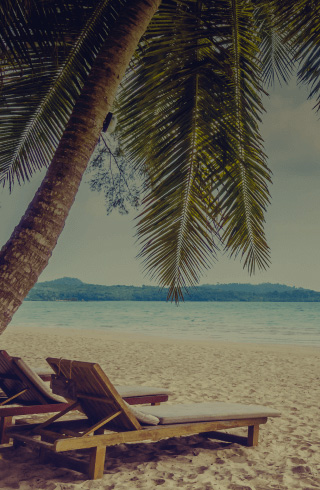
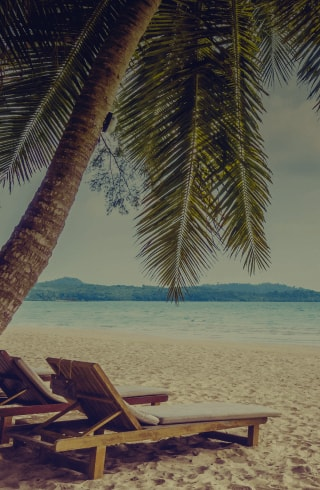
added mailchimp newsletter form and links on social networks

diff --git a/build/index.html b/build/index.html
@@ -122,10 +122,10 @@
             <h3 class="info__proposals-title"><svg class="info__proposals-title-img" viewBox="0 0 108 111" fill="none" xmlns="http://www.w3.org/2000/svg"><path d="M0 26.8646C3.54246 28.6807 7.6479 29.0639 11.4653 27.9349C15.2826 26.8059 18.5192 24.2512 20.5039 20.8004C22.5035 17.3552 23.0997 13.2723 22.1687 9.39917C21.2378 5.52604 18.8512 2.16012 15.5043 0L0 26.8646Z" transform="translate(30.045 54.9622) scale(-1 1) rotate(-10)" fill="#F44B00"/><path d="M1.40153 0L0 2.43243C3.13819 4.46204 5.43724 7.55734 6.4736 11.1481C7.50997 14.7388 7.21383 18.5831 5.63975 21.9728C5.90928 21.5955 6.16533 21.1979 6.40116 20.7936C8.39869 17.3491 8.99372 13.2678 8.06285 9.39623C7.13197 5.52469 4.74663 2.16 1.40153 0Z" transform="translate(16.1564 52.5132) scale(-1 1) rotate(-10)" fill="#FF8500"/><path d="M30.1859 5.505L11.1576 21.6763C10.2998 22.4044 9.23796 22.8495 8.11742 22.9508C6.99689 23.0522 5.87242 22.8047 4.89794 22.2423L1.23918 20.1333C0.891672 19.9355 0.59781 19.6557 0.383189 19.3183C0.168567 18.9808 0.0397011 18.5961 0.0078124 18.1975C-0.0240763 17.7989 0.0419697 17.3985 0.20022 17.0313C0.35847 16.664 0.604112 16.3411 0.915748 16.0905L20.6179 0L30.1859 5.505Z" transform="translate(53.0779 80.7468) scale(-1 1) rotate(-10)" fill="#E6E7E8"/><path d="M4.94574 0L0 3.85417L3.35556 5.788L8.22717 1.8934L4.94574 0Z" transform="translate(38.7762 80.606) scale(-1 1) rotate(-10)" fill="#FF8500"/><path d="M0 0L0.235831 0.882684L3.56443 2.80304L3.35556 1.93383L0 0Z" transform="translate(38.1069 84.4016) scale(-1 1) rotate(-10)" fill="#FF8500"/><path d="M4.87161 0L5.79473 0.532302L0.208878 4.76381L0 3.8946L4.87161 0Z" transform="translate(35.1428 81.8879) scale(-1 1) rotate(-10)" fill="#F44B00"/><path d="M26.7023 0L12.1683 12.3172C11.3101 13.0443 10.2483 13.4889 9.12801 13.5902C8.0077 13.6915 6.88342 13.4446 5.90865 12.8832L2.73503 11.0504L0.915748 12.5328C0.604112 12.7834 0.35847 13.1063 0.20022 13.4736C0.0419697 13.8408 -0.0240763 14.2412 0.0078124 14.6398C0.0397011 15.0384 0.168567 15.4232 0.383189 15.7606C0.59781 16.098 0.891672 16.3778 1.23918 16.5756L4.89794 18.6846C5.87242 19.247 6.99689 19.4945 8.11742 19.3931C9.23796 19.2918 10.2998 18.8467 11.1576 18.1187L30.1859 1.94731L26.7023 0Z" transform="translate(52.4437 84.2271) scale(-1 1) rotate(-10)" fill="#BCBEC0"/><path d="M0 62.0643C0 62.0643 6.11816 64.6921 9.43328 64.874L35.8734 66.3093C41.1901 66.5921 46.4 67.9129 51.2093 70.1971L53.2307 71.1404C57.1268 72.998 61.5801 73.3179 65.7018 72.0365C69.8234 70.755 73.3102 67.9664 75.4663 64.2272C77.6237 60.4927 78.2948 56.0825 77.3457 51.8754C76.3966 47.6682 73.8971 43.9732 70.3453 41.5267L68.5328 40.2734C64.1563 37.2565 60.4116 33.4134 57.5093 28.9602L43.0495 6.77849C41.2302 3.98893 35.8936 0 35.8936 0L0 62.0643Z" transform="translate(94.3892 20.7263) scale(-1 1) rotate(-10)" fill="#E6E7E8"/><path d="M23.3743 33.569C26.6767 37.6006 30.5732 41.1063 34.9301 43.9658L36.7629 45.1787C44.2151 50.0975 47.3618 58.392 43.9928 64.2272C46.1502 60.4927 46.8213 56.0825 45.8722 51.8754C44.9232 47.6682 42.4237 43.9732 38.8719 41.5267L37.0593 40.2734C32.6828 37.2565 28.9382 33.4134 26.0359 28.9602L11.576 6.77849C9.75671 3.98893 4.42017 0 4.42017 0L0 7.65443C0 7.65443 5.43088 11.4749 7.41187 13.941L23.3743 33.569Z" transform="translate(63.4735 15.2749) scale(-1 1) rotate(-10)" fill="white"/><path d="M55.2521 13.0382L53.2846 12.0544C48.6353 9.7272 43.6599 8.11873 38.5282 7.28384L13.5974 3.2949C10.4575 2.79628 4.43363 0 4.43363 0L0 7.614C0 7.614 6.11816 10.2419 9.43328 10.4238L35.8734 11.859C41.1901 12.1419 46.4 13.4627 51.2093 15.7468L53.2307 16.6902C57.1268 18.5477 61.5801 18.8677 65.7018 17.5862C69.8234 16.3048 73.3102 13.5161 75.4663 9.77693C72.0231 15.6121 63.2704 17.0338 55.2521 13.0382Z" transform="translate(84.934 74.3494) scale(-1 1) rotate(-10)" fill="#BCBEC0"/><path d="M33.0839 39.8017C40.4957 26.9994 43.6222 13.968 42.0455 5.57911C40.1326 3.54321 38.0473 1.67656 35.8128 0L0 62.0643C2.56795 63.1608 5.22591 64.0333 7.94418 64.6719C15.9759 61.8486 25.6855 52.6175 33.0839 39.8017Z" transform="translate(94.3892 20.7263) scale(-1 1) rotate(-10)" fill="#F44B00"/><path d="M35.8263 27.8012C55.6126 27.8012 71.6525 21.5777 71.6525 13.9006C71.6525 6.22352 55.6126 0 35.8263 0C16.04 0 0 6.22352 0 13.9006C0 21.5777 16.04 27.8012 35.8263 27.8012Z" transform="translate(96.6858 77.0979) scale(-1 1) rotate(-70)" fill="#FF8500"/><path d="M35.8263 27.8012C55.6126 27.8012 71.6525 21.5777 71.6525 13.9006C71.6525 6.22352 55.6126 0 35.8263 0C16.04 0 0 6.22352 0 13.9006C0 21.5777 16.04 27.8012 35.8263 27.8012Z" transform="translate(96.6858 77.0979) scale(-1 1) rotate(-70)" fill="#FF8500"/><path d="M33.8588 24.5131C52.5584 24.5131 67.7175 19.0256 67.7175 12.2565C67.7175 5.48744 52.5584 0 33.8588 0C15.1591 0 0 5.48744 0 12.2565C0 19.0256 15.1591 24.5131 33.8588 24.5131Z" transform="translate(94.4679 75.8113) scale(-1 1) rotate(-70)" fill="white"/><path d="M33.8588 24.5131C52.5584 24.5131 67.7175 19.0256 67.7175 12.2565C67.7175 5.48744 52.5584 0 33.8588 0C15.1591 0 0 5.48744 0 12.2565C0 19.0256 15.1591 24.5131 33.8588 24.5131Z" transform="translate(94.4679 75.8113) scale(-1 1) rotate(-70)" fill="white"/><path d="M34.2252 0C27.797 0.141499 17.4676 9.79713 9.36846 23.8258C1.26931 37.8544 -1.93126 51.627 1.16151 57.2668C7.58962 57.1253 17.9191 47.4696 26.0182 33.441C34.1173 19.4124 37.3179 5.63302 34.2252 0Z" transform="translate(91.2895 23.9634) scale(-1 1) rotate(-10)" fill="#E6E7E8"/><path d="M9.27158 20.888C3.79353 30.3752 0.559259 39.7546 0 46.5667C5.62628 42.6721 12.1285 35.1862 17.5998 25.6788C23.0711 16.1714 26.3121 6.81218 26.8714 0C21.2182 3.91481 14.7227 11.4008 9.27158 20.888Z" transform="translate(81.6214 30.1201) scale(-1 1) rotate(-10)" fill="#BCBEC0"/><path d="M4.25171 7.33776L0 14.6957L7.18277 25.2138C13.0942 17.9108 17.8234 9.72562 21.1979 0.956814L8.4967 0L4.25171 7.33776Z" transform="translate(77.137 41.5833) scale(-1 1) rotate(-10)" fill="white"/><path d="M8.13284 3.76657L5.5589 0L4.25171 2.264L0 9.62195L7.18278 20.1401C10.1466 16.4986 12.8101 12.6228 15.1472 8.5506C16.095 6.91101 16.9732 5.27816 17.7818 3.65204L17.7346 3.72615C17.2082 4.51495 16.4961 5.16236 15.6608 5.6114C14.8256 6.06044 13.8928 6.29737 12.9445 6.30137C11.9962 6.30536 11.0614 6.07628 10.2224 5.63428C9.3834 5.19229 8.66584 4.55092 8.13284 3.76657Z" transform="translate(76.256 46.5798) scale(-1 1) rotate(-10)" fill="#D1D3D4"/><path d="M8.49668 6.1586C13.1893 6.1586 16.9934 4.77994 16.9934 3.0793C16.9934 1.37865 13.1893 0 8.49668 0C3.80409 0 0 1.37865 0 3.0793C0 4.77994 3.80409 6.1586 8.49668 6.1586Z" transform="translate(77.1799 55.0989) scale(-1 1) rotate(-70)" fill="#FF8500"/><path d="M7.80266 5.25568C12.112 5.25568 15.6053 4.07916 15.6053 2.62784C15.6053 1.17652 12.112 0 7.80266 0C3.49337 0 0 1.17652 0 2.62784C0 4.07916 3.49337 5.25568 7.80266 5.25568Z" transform="translate(76.5195 54.5945) scale(-1 1) rotate(-70)" fill="#F44B00"/><path d="M15.1876 21.144C11.4775 27.6105 6.26894 33.0917 0 37.1267C3.6051 37.3491 7.16471 38.0492 10.5855 39.2088C20.4314 31.6184 26.8825 20.4477 28.5357 8.1261C25.8213 5.74351 23.4353 3.01091 21.4405 0C21.0784 7.44687 18.934 14.698 15.1876 21.144Z" transform="translate(53.7189 43.2014) scale(-1 1) rotate(-10)" fill="#FF8500"/><path d="M28.5155 0H28.4144C27.6839 1.70707 26.8536 3.36975 25.9281 4.97944C23.2378 9.65411 19.7617 13.83 15.6525 17.3236C15.1334 17.7586 14.5152 18.0592 13.8525 18.199C13.1898 18.3388 12.5029 18.3135 11.8522 18.1254C8.57694 22.452 4.56485 26.1675 0 29.1017C3.6051 29.3241 7.16473 30.0242 10.5855 31.1837C20.4468 23.5658 26.8927 12.355 28.5155 0Z" transform="translate(52.2984 51.1409) scale(-1 1) rotate(-10)" fill="#F44B00"/></svg>Хотите всегда быть в курсе самых выгодных предложений?
             </h3>
             <p class="info__proposals-text">Мы раз в неделю будем оповещать вас о лучших предложениях на рынке. Покупайте дешевле!</p>
-            <form action="https://formspree.io/info@vinvotravel.com" name="proposals" method="POST" class="info__proposals-form">
-              <input type="text" name="name" placeholder="Как вас зовут?" minlength="3" required class="info__proposals-form-input">
-              <input type="email" name="phone" placeholder="Ваш Email" pattern="[a-z0-9._%+-]+@[a-z0-9.-]+.[a-z]{2,4}$" required class="info__proposals-form-input">
-              <button type="submit" data-sm="thank-you" class="info__proposals-form-btn">Сообщайте мне о скидках</button>
+            <form action="https://vinvotravel.us12.list-manage.com/subscribe/post?u=4cf97530d2a247bb6d52031b0&amp;amp;id=bb5f9b21f3" name="mc-embedded-subscribe-form" id="mc-embedded-subscribe-form" method="POST" target="_blank" novalidate class="info__proposals-form validate">
+              <input type="text" id="mce-FNAME" name="FNAME" placeholder="Как вас зовут?" minlength="3" required class="info__proposals-form-input">
+              <input type="email" id="mce-EMAIL" name="EMAIL" placeholder="Ваш Email" pattern="[a-z0-9._%+-]+@[a-z0-9.-]+.[a-z]{2,4}$" required class="info__proposals-form-input">
+              <button type="submit" name="subscribe" id="mc-embedded-subscribe" data-sm="thank-you" class="info__proposals-form-btn">Сообщайте мне о скидках</button>
             </form>
             <p class="info__proposals-under-text">Только полезные оповещения. Никакого спама и воды.</p>
           </div>
@@ -311,7 +311,7 @@
               <div class="footer__tel-other"><a href="tel:+380965993523" class="footer__tel footer__tel--ky">+38 (096) 599-35-23</a><a href="tel:+380956100750" class="footer__tel footer__tel--vo">+38 (095) 610-07-50</a><a href="tel:+380630756705" class="footer__tel footer__tel--lc">+38 (063) 075-67-05</a></div>
             </div>
           </div>
-          <div class="footer__socials"><a href="" class="footer__socials-item footer__socials-item--fb"><svg class="footer__socials-img" width="32" height="32" viewBox="0 0 32 32" fill="none" xmlns="http://www.w3.org/2000/svg"><path class="soc-fill" d="M16 0C7.164 0 0 7.164 0 16C0 24.836 7.164 32 16 32C24.836 32 32 24.836 32 16C32 7.16203 24.836 0 16 0ZM20.136 15.998L17.514 15.9999L17.512 25.5999H13.914V16H11.514V12.692L13.914 12.69L13.91 10.742C13.91 8.04204 14.642 6.40004 17.82 6.40004H20.468V9.71003H18.812C17.574 9.71003 17.514 10.172 17.514 11.034L17.51 12.69H20.4859L20.136 15.998Z" fill="white"/></svg></a><a href="" class="footer__socials-item footer__socials-item--tw"><svg class="footer__socials-img" width="32" height="32" viewBox="0 0 32 32" fill="none" xmlns="http://www.w3.org/2000/svg"><path class="soc-fill" d="M3.20181 6.40619C4.96705 6.40619 6.40619 4.96963 6.40619 3.20309C6.40619 2.50576 6.17804 1.86192 5.80037 1.33602C5.2184 0.529123 4.2723 0 3.20374 0C2.13454 0 1.18908 0.528477 0.605819 1.33537C0.226861 1.86127 0.000646433 2.50512 1.94764e-06 3.20245C-0.00193151 4.96898 1.43592 6.40619 3.20181 6.40619Z" transform="translate(12.7976 12.7969)" fill="white"/><path d="M3.08515 3.08451V0.399581V0L2.68364 0.00128888L0 0.00966751L0.010311 3.09482L3.08515 3.08451Z" transform="translate(19.9088 8.99707)" fill="white"/><path d="M16 0C7.17764 0 0 7.17764 0 16C0 24.8217 7.17764 32 16 32C24.8217 32 32 24.8217 32 16C32 7.17764 24.823 0 16 0ZM25.0995 14.1329V21.5832C25.0995 23.5237 23.5218 25.1008 21.5825 25.1008H10.4175C8.47756 25.1008 6.90051 23.5237 6.90051 21.5832V14.1329V10.4181C6.90051 8.47821 8.47756 6.90115 10.4175 6.90115H21.5819C23.5218 6.90115 25.0995 8.47821 25.0995 10.4181V14.1329Z" fill="white"/><path d="M12.3045 1.86707C12.3045 4.61065 10.072 6.84444 7.32716 6.84444C4.58229 6.84444 2.35044 4.61065 2.35044 1.86707C2.35044 1.20712 2.48191 0.57617 2.71651 0H0V7.45025C0 8.41311 0.781761 9.19294 1.74398 9.19294H12.9084C13.8693 9.19294 14.6524 8.41311 14.6524 7.45025V0H11.9346C12.1711 0.57617 12.3045 1.20712 12.3045 1.86707Z" transform="translate(8.67285 14.1328)" fill="white"/></svg></a><a href="" class="footer__socials-item footer__socials-item--tg">
+          <div class="footer__socials"><a href="https://fb.com/vinvotravel" class="footer__socials-item footer__socials-item--fb"><svg class="footer__socials-img" width="32" height="32" viewBox="0 0 32 32" fill="none" xmlns="http://www.w3.org/2000/svg"><path class="soc-fill" d="M16 0C7.164 0 0 7.164 0 16C0 24.836 7.164 32 16 32C24.836 32 32 24.836 32 16C32 7.16203 24.836 0 16 0ZM20.136 15.998L17.514 15.9999L17.512 25.5999H13.914V16H11.514V12.692L13.914 12.69L13.91 10.742C13.91 8.04204 14.642 6.40004 17.82 6.40004H20.468V9.71003H18.812C17.574 9.71003 17.514 10.172 17.514 11.034L17.51 12.69H20.4859L20.136 15.998Z" fill="white"/></svg></a><a href="https://www.instagram.com/vinvotravel/" class="footer__socials-item footer__socials-item--tw"><svg class="footer__socials-img" width="32" height="32" viewBox="0 0 32 32" fill="none" xmlns="http://www.w3.org/2000/svg"><path class="soc-fill" d="M3.20181 6.40619C4.96705 6.40619 6.40619 4.96963 6.40619 3.20309C6.40619 2.50576 6.17804 1.86192 5.80037 1.33602C5.2184 0.529123 4.2723 0 3.20374 0C2.13454 0 1.18908 0.528477 0.605819 1.33537C0.226861 1.86127 0.000646433 2.50512 1.94764e-06 3.20245C-0.00193151 4.96898 1.43592 6.40619 3.20181 6.40619Z" transform="translate(12.7976 12.7969)" fill="white"/><path d="M3.08515 3.08451V0.399581V0L2.68364 0.00128888L0 0.00966751L0.010311 3.09482L3.08515 3.08451Z" transform="translate(19.9088 8.99707)" fill="white"/><path d="M16 0C7.17764 0 0 7.17764 0 16C0 24.8217 7.17764 32 16 32C24.8217 32 32 24.8217 32 16C32 7.17764 24.823 0 16 0ZM25.0995 14.1329V21.5832C25.0995 23.5237 23.5218 25.1008 21.5825 25.1008H10.4175C8.47756 25.1008 6.90051 23.5237 6.90051 21.5832V14.1329V10.4181C6.90051 8.47821 8.47756 6.90115 10.4175 6.90115H21.5819C23.5218 6.90115 25.0995 8.47821 25.0995 10.4181V14.1329Z" fill="white"/><path d="M12.3045 1.86707C12.3045 4.61065 10.072 6.84444 7.32716 6.84444C4.58229 6.84444 2.35044 4.61065 2.35044 1.86707C2.35044 1.20712 2.48191 0.57617 2.71651 0H0V7.45025C0 8.41311 0.781761 9.19294 1.74398 9.19294H12.9084C13.8693 9.19294 14.6524 8.41311 14.6524 7.45025V0H11.9346C12.1711 0.57617 12.3045 1.20712 12.3045 1.86707Z" transform="translate(8.67285 14.1328)" fill="white"/></svg></a><a href="https://t.me/vinvotravel_public" class="footer__socials-item footer__socials-item--tg">
                   <svg class="footer__socials-img" width="32" height="32" viewBox="0 0 32 32" fill="none" xmlns="http://www.w3.org/2000/svg"><path fill-rule="evenodd" clip-rule="evenodd" d="M0 16C0 7.17773 7.17761 0 16 0C24.823 0 32 7.17773 32 16C32 24.8218 24.8218 32 16 32C7.17761 32 0 24.8218 0 16ZM10.4655 17.6738L6.31799 16.1924C5.89673 16.0415 5.89307 15.4722 6.31311 15.3169L23.3348 9.03223C23.6957 8.89844 24.068 9.20117 23.9894 9.56396L20.9347 23.6274C20.8628 23.9595 20.4559 24.1099 20.1689 23.9102L15.999 21.0127C15.882 20.9312 15.7452 20.8892 15.6082 20.8867C15.4486 20.8838 15.2885 20.9336 15.1582 21.0352L12.8463 22.8389C12.5779 23.0488 12.1736 22.9321 12.0708 22.6157L10.4655 17.6738ZM19.9181 12.1069L11.8121 16.8853C11.5015 17.0688 11.3552 17.4282 11.4556 17.7642L12.332 20.7114C12.3942 20.9204 12.7109 20.8989 12.7411 20.6831L12.969 19.0669C13.012 18.7627 13.1637 18.4824 13.3988 18.2729L20.0885 12.3208C20.2136 12.21 20.0637 12.0215 19.9181 12.1069Z" fill="white"/>
                   </svg></a></div>
         </div>

diff --git a/build/partials/_info.html b/build/partials/_info.html
@@ -6,10 +6,10 @@
         <h3 class="info__proposals-title"><svg class="info__proposals-title-img" viewBox="0 0 108 111" fill="none" xmlns="http://www.w3.org/2000/svg"><path d="M0 26.8646C3.54246 28.6807 7.6479 29.0639 11.4653 27.9349C15.2826 26.8059 18.5192 24.2512 20.5039 20.8004C22.5035 17.3552 23.0997 13.2723 22.1687 9.39917C21.2378 5.52604 18.8512 2.16012 15.5043 0L0 26.8646Z" transform="translate(30.045 54.9622) scale(-1 1) rotate(-10)" fill="#F44B00"/><path d="M1.40153 0L0 2.43243C3.13819 4.46204 5.43724 7.55734 6.4736 11.1481C7.50997 14.7388 7.21383 18.5831 5.63975 21.9728C5.90928 21.5955 6.16533 21.1979 6.40116 20.7936C8.39869 17.3491 8.99372 13.2678 8.06285 9.39623C7.13197 5.52469 4.74663 2.16 1.40153 0Z" transform="translate(16.1564 52.5132) scale(-1 1) rotate(-10)" fill="#FF8500"/><path d="M30.1859 5.505L11.1576 21.6763C10.2998 22.4044 9.23796 22.8495 8.11742 22.9508C6.99689 23.0522 5.87242 22.8047 4.89794 22.2423L1.23918 20.1333C0.891672 19.9355 0.59781 19.6557 0.383189 19.3183C0.168567 18.9808 0.0397011 18.5961 0.0078124 18.1975C-0.0240763 17.7989 0.0419697 17.3985 0.20022 17.0313C0.35847 16.664 0.604112 16.3411 0.915748 16.0905L20.6179 0L30.1859 5.505Z" transform="translate(53.0779 80.7468) scale(-1 1) rotate(-10)" fill="#E6E7E8"/><path d="M4.94574 0L0 3.85417L3.35556 5.788L8.22717 1.8934L4.94574 0Z" transform="translate(38.7762 80.606) scale(-1 1) rotate(-10)" fill="#FF8500"/><path d="M0 0L0.235831 0.882684L3.56443 2.80304L3.35556 1.93383L0 0Z" transform="translate(38.1069 84.4016) scale(-1 1) rotate(-10)" fill="#FF8500"/><path d="M4.87161 0L5.79473 0.532302L0.208878 4.76381L0 3.8946L4.87161 0Z" transform="translate(35.1428 81.8879) scale(-1 1) rotate(-10)" fill="#F44B00"/><path d="M26.7023 0L12.1683 12.3172C11.3101 13.0443 10.2483 13.4889 9.12801 13.5902C8.0077 13.6915 6.88342 13.4446 5.90865 12.8832L2.73503 11.0504L0.915748 12.5328C0.604112 12.7834 0.35847 13.1063 0.20022 13.4736C0.0419697 13.8408 -0.0240763 14.2412 0.0078124 14.6398C0.0397011 15.0384 0.168567 15.4232 0.383189 15.7606C0.59781 16.098 0.891672 16.3778 1.23918 16.5756L4.89794 18.6846C5.87242 19.247 6.99689 19.4945 8.11742 19.3931C9.23796 19.2918 10.2998 18.8467 11.1576 18.1187L30.1859 1.94731L26.7023 0Z" transform="translate(52.4437 84.2271) scale(-1 1) rotate(-10)" fill="#BCBEC0"/><path d="M0 62.0643C0 62.0643 6.11816 64.6921 9.43328 64.874L35.8734 66.3093C41.1901 66.5921 46.4 67.9129 51.2093 70.1971L53.2307 71.1404C57.1268 72.998 61.5801 73.3179 65.7018 72.0365C69.8234 70.755 73.3102 67.9664 75.4663 64.2272C77.6237 60.4927 78.2948 56.0825 77.3457 51.8754C76.3966 47.6682 73.8971 43.9732 70.3453 41.5267L68.5328 40.2734C64.1563 37.2565 60.4116 33.4134 57.5093 28.9602L43.0495 6.77849C41.2302 3.98893 35.8936 0 35.8936 0L0 62.0643Z" transform="translate(94.3892 20.7263) scale(-1 1) rotate(-10)" fill="#E6E7E8"/><path d="M23.3743 33.569C26.6767 37.6006 30.5732 41.1063 34.9301 43.9658L36.7629 45.1787C44.2151 50.0975 47.3618 58.392 43.9928 64.2272C46.1502 60.4927 46.8213 56.0825 45.8722 51.8754C44.9232 47.6682 42.4237 43.9732 38.8719 41.5267L37.0593 40.2734C32.6828 37.2565 28.9382 33.4134 26.0359 28.9602L11.576 6.77849C9.75671 3.98893 4.42017 0 4.42017 0L0 7.65443C0 7.65443 5.43088 11.4749 7.41187 13.941L23.3743 33.569Z" transform="translate(63.4735 15.2749) scale(-1 1) rotate(-10)" fill="white"/><path d="M55.2521 13.0382L53.2846 12.0544C48.6353 9.7272 43.6599 8.11873 38.5282 7.28384L13.5974 3.2949C10.4575 2.79628 4.43363 0 4.43363 0L0 7.614C0 7.614 6.11816 10.2419 9.43328 10.4238L35.8734 11.859C41.1901 12.1419 46.4 13.4627 51.2093 15.7468L53.2307 16.6902C57.1268 18.5477 61.5801 18.8677 65.7018 17.5862C69.8234 16.3048 73.3102 13.5161 75.4663 9.77693C72.0231 15.6121 63.2704 17.0338 55.2521 13.0382Z" transform="translate(84.934 74.3494) scale(-1 1) rotate(-10)" fill="#BCBEC0"/><path d="M33.0839 39.8017C40.4957 26.9994 43.6222 13.968 42.0455 5.57911C40.1326 3.54321 38.0473 1.67656 35.8128 0L0 62.0643C2.56795 63.1608 5.22591 64.0333 7.94418 64.6719C15.9759 61.8486 25.6855 52.6175 33.0839 39.8017Z" transform="translate(94.3892 20.7263) scale(-1 1) rotate(-10)" fill="#F44B00"/><path d="M35.8263 27.8012C55.6126 27.8012 71.6525 21.5777 71.6525 13.9006C71.6525 6.22352 55.6126 0 35.8263 0C16.04 0 0 6.22352 0 13.9006C0 21.5777 16.04 27.8012 35.8263 27.8012Z" transform="translate(96.6858 77.0979) scale(-1 1) rotate(-70)" fill="#FF8500"/><path d="M35.8263 27.8012C55.6126 27.8012 71.6525 21.5777 71.6525 13.9006C71.6525 6.22352 55.6126 0 35.8263 0C16.04 0 0 6.22352 0 13.9006C0 21.5777 16.04 27.8012 35.8263 27.8012Z" transform="translate(96.6858 77.0979) scale(-1 1) rotate(-70)" fill="#FF8500"/><path d="M33.8588 24.5131C52.5584 24.5131 67.7175 19.0256 67.7175 12.2565C67.7175 5.48744 52.5584 0 33.8588 0C15.1591 0 0 5.48744 0 12.2565C0 19.0256 15.1591 24.5131 33.8588 24.5131Z" transform="translate(94.4679 75.8113) scale(-1 1) rotate(-70)" fill="white"/><path d="M33.8588 24.5131C52.5584 24.5131 67.7175 19.0256 67.7175 12.2565C67.7175 5.48744 52.5584 0 33.8588 0C15.1591 0 0 5.48744 0 12.2565C0 19.0256 15.1591 24.5131 33.8588 24.5131Z" transform="translate(94.4679 75.8113) scale(-1 1) rotate(-70)" fill="white"/><path d="M34.2252 0C27.797 0.141499 17.4676 9.79713 9.36846 23.8258C1.26931 37.8544 -1.93126 51.627 1.16151 57.2668C7.58962 57.1253 17.9191 47.4696 26.0182 33.441C34.1173 19.4124 37.3179 5.63302 34.2252 0Z" transform="translate(91.2895 23.9634) scale(-1 1) rotate(-10)" fill="#E6E7E8"/><path d="M9.27158 20.888C3.79353 30.3752 0.559259 39.7546 0 46.5667C5.62628 42.6721 12.1285 35.1862 17.5998 25.6788C23.0711 16.1714 26.3121 6.81218 26.8714 0C21.2182 3.91481 14.7227 11.4008 9.27158 20.888Z" transform="translate(81.6214 30.1201) scale(-1 1) rotate(-10)" fill="#BCBEC0"/><path d="M4.25171 7.33776L0 14.6957L7.18277 25.2138C13.0942 17.9108 17.8234 9.72562 21.1979 0.956814L8.4967 0L4.25171 7.33776Z" transform="translate(77.137 41.5833) scale(-1 1) rotate(-10)" fill="white"/><path d="M8.13284 3.76657L5.5589 0L4.25171 2.264L0 9.62195L7.18278 20.1401C10.1466 16.4986 12.8101 12.6228 15.1472 8.5506C16.095 6.91101 16.9732 5.27816 17.7818 3.65204L17.7346 3.72615C17.2082 4.51495 16.4961 5.16236 15.6608 5.6114C14.8256 6.06044 13.8928 6.29737 12.9445 6.30137C11.9962 6.30536 11.0614 6.07628 10.2224 5.63428C9.3834 5.19229 8.66584 4.55092 8.13284 3.76657Z" transform="translate(76.256 46.5798) scale(-1 1) rotate(-10)" fill="#D1D3D4"/><path d="M8.49668 6.1586C13.1893 6.1586 16.9934 4.77994 16.9934 3.0793C16.9934 1.37865 13.1893 0 8.49668 0C3.80409 0 0 1.37865 0 3.0793C0 4.77994 3.80409 6.1586 8.49668 6.1586Z" transform="translate(77.1799 55.0989) scale(-1 1) rotate(-70)" fill="#FF8500"/><path d="M7.80266 5.25568C12.112 5.25568 15.6053 4.07916 15.6053 2.62784C15.6053 1.17652 12.112 0 7.80266 0C3.49337 0 0 1.17652 0 2.62784C0 4.07916 3.49337 5.25568 7.80266 5.25568Z" transform="translate(76.5195 54.5945) scale(-1 1) rotate(-70)" fill="#F44B00"/><path d="M15.1876 21.144C11.4775 27.6105 6.26894 33.0917 0 37.1267C3.6051 37.3491 7.16471 38.0492 10.5855 39.2088C20.4314 31.6184 26.8825 20.4477 28.5357 8.1261C25.8213 5.74351 23.4353 3.01091 21.4405 0C21.0784 7.44687 18.934 14.698 15.1876 21.144Z" transform="translate(53.7189 43.2014) scale(-1 1) rotate(-10)" fill="#FF8500"/><path d="M28.5155 0H28.4144C27.6839 1.70707 26.8536 3.36975 25.9281 4.97944C23.2378 9.65411 19.7617 13.83 15.6525 17.3236C15.1334 17.7586 14.5152 18.0592 13.8525 18.199C13.1898 18.3388 12.5029 18.3135 11.8522 18.1254C8.57694 22.452 4.56485 26.1675 0 29.1017C3.6051 29.3241 7.16473 30.0242 10.5855 31.1837C20.4468 23.5658 26.8927 12.355 28.5155 0Z" transform="translate(52.2984 51.1409) scale(-1 1) rotate(-10)" fill="#F44B00"/></svg>Хотите всегда быть в курсе самых выгодных предложений?
         </h3>
         <p class="info__proposals-text">Мы раз в неделю будем оповещать вас о лучших предложениях на рынке. Покупайте дешевле!</p>
-        <form action="https://formspree.io/info@vinvotravel.com" name="proposals" method="POST" class="info__proposals-form">
-          <input type="text" name="name" placeholder="Как вас зовут?" minlength="3" required="required" class="info__proposals-form-input"/>
-          <input type="email" name="phone" placeholder="Ваш Email" pattern="[a-z0-9._%+-]+@[a-z0-9.-]+.[a-z]{2,4}$" required="required" class="info__proposals-form-input"/>
-          <button type="submit" data-sm="thank-you" class="info__proposals-form-btn">Сообщайте мне о скидках</button>
+        <form action="https://vinvotravel.us12.list-manage.com/subscribe/post?u=4cf97530d2a247bb6d52031b0&amp;amp;id=bb5f9b21f3" name="mc-embedded-subscribe-form" id="mc-embedded-subscribe-form" method="POST" target="_blank" novalidate="novalidate" class="info__proposals-form validate">
+          <input type="text" id="mce-FNAME" name="FNAME" placeholder="Как вас зовут?" minlength="3" required="required" class="info__proposals-form-input"/>
+          <input type="email" id="mce-EMAIL" name="EMAIL" placeholder="Ваш Email" pattern="[a-z0-9._%+-]+@[a-z0-9.-]+.[a-z]{2,4}$" required="required" class="info__proposals-form-input"/>
+          <button type="submit" name="subscribe" id="mc-embedded-subscribe" data-sm="thank-you" class="info__proposals-form-btn">Сообщайте мне о скидках</button>
         </form>
         <p class="info__proposals-under-text">Только полезные оповещения. Никакого спама и воды.</p>
       </div>

diff --git a/build/partials/_footer.html b/build/partials/_footer.html
@@ -8,7 +8,7 @@
           <div class="footer__tel-other"><a href="tel:+380965993523" class="footer__tel footer__tel--ky">+38 (096) 599-35-23</a><a href="tel:+380956100750" class="footer__tel footer__tel--vo">+38 (095) 610-07-50</a><a href="tel:+380630756705" class="footer__tel footer__tel--lc">+38 (063) 075-67-05</a></div>
         </div>
       </div>
-      <div class="footer__socials"><a href="" class="footer__socials-item footer__socials-item--fb"><svg class="footer__socials-img" width="32" height="32" viewBox="0 0 32 32" fill="none" xmlns="http://www.w3.org/2000/svg"><path class="soc-fill" d="M16 0C7.164 0 0 7.164 0 16C0 24.836 7.164 32 16 32C24.836 32 32 24.836 32 16C32 7.16203 24.836 0 16 0ZM20.136 15.998L17.514 15.9999L17.512 25.5999H13.914V16H11.514V12.692L13.914 12.69L13.91 10.742C13.91 8.04204 14.642 6.40004 17.82 6.40004H20.468V9.71003H18.812C17.574 9.71003 17.514 10.172 17.514 11.034L17.51 12.69H20.4859L20.136 15.998Z" fill="white"/></svg></a><a href="" class="footer__socials-item footer__socials-item--tw"><svg class="footer__socials-img" width="32" height="32" viewBox="0 0 32 32" fill="none" xmlns="http://www.w3.org/2000/svg"><path class="soc-fill" d="M3.20181 6.40619C4.96705 6.40619 6.40619 4.96963 6.40619 3.20309C6.40619 2.50576 6.17804 1.86192 5.80037 1.33602C5.2184 0.529123 4.2723 0 3.20374 0C2.13454 0 1.18908 0.528477 0.605819 1.33537C0.226861 1.86127 0.000646433 2.50512 1.94764e-06 3.20245C-0.00193151 4.96898 1.43592 6.40619 3.20181 6.40619Z" transform="translate(12.7976 12.7969)" fill="white"/><path d="M3.08515 3.08451V0.399581V0L2.68364 0.00128888L0 0.00966751L0.010311 3.09482L3.08515 3.08451Z" transform="translate(19.9088 8.99707)" fill="white"/><path d="M16 0C7.17764 0 0 7.17764 0 16C0 24.8217 7.17764 32 16 32C24.8217 32 32 24.8217 32 16C32 7.17764 24.823 0 16 0ZM25.0995 14.1329V21.5832C25.0995 23.5237 23.5218 25.1008 21.5825 25.1008H10.4175C8.47756 25.1008 6.90051 23.5237 6.90051 21.5832V14.1329V10.4181C6.90051 8.47821 8.47756 6.90115 10.4175 6.90115H21.5819C23.5218 6.90115 25.0995 8.47821 25.0995 10.4181V14.1329Z" fill="white"/><path d="M12.3045 1.86707C12.3045 4.61065 10.072 6.84444 7.32716 6.84444C4.58229 6.84444 2.35044 4.61065 2.35044 1.86707C2.35044 1.20712 2.48191 0.57617 2.71651 0H0V7.45025C0 8.41311 0.781761 9.19294 1.74398 9.19294H12.9084C13.8693 9.19294 14.6524 8.41311 14.6524 7.45025V0H11.9346C12.1711 0.57617 12.3045 1.20712 12.3045 1.86707Z" transform="translate(8.67285 14.1328)" fill="white"/></svg></a><a href="" class="footer__socials-item footer__socials-item--tg">
+      <div class="footer__socials"><a href="https://fb.com/vinvotravel" class="footer__socials-item footer__socials-item--fb"><svg class="footer__socials-img" width="32" height="32" viewBox="0 0 32 32" fill="none" xmlns="http://www.w3.org/2000/svg"><path class="soc-fill" d="M16 0C7.164 0 0 7.164 0 16C0 24.836 7.164 32 16 32C24.836 32 32 24.836 32 16C32 7.16203 24.836 0 16 0ZM20.136 15.998L17.514 15.9999L17.512 25.5999H13.914V16H11.514V12.692L13.914 12.69L13.91 10.742C13.91 8.04204 14.642 6.40004 17.82 6.40004H20.468V9.71003H18.812C17.574 9.71003 17.514 10.172 17.514 11.034L17.51 12.69H20.4859L20.136 15.998Z" fill="white"/></svg></a><a href="https://www.instagram.com/vinvotravel/" class="footer__socials-item footer__socials-item--tw"><svg class="footer__socials-img" width="32" height="32" viewBox="0 0 32 32" fill="none" xmlns="http://www.w3.org/2000/svg"><path class="soc-fill" d="M3.20181 6.40619C4.96705 6.40619 6.40619 4.96963 6.40619 3.20309C6.40619 2.50576 6.17804 1.86192 5.80037 1.33602C5.2184 0.529123 4.2723 0 3.20374 0C2.13454 0 1.18908 0.528477 0.605819 1.33537C0.226861 1.86127 0.000646433 2.50512 1.94764e-06 3.20245C-0.00193151 4.96898 1.43592 6.40619 3.20181 6.40619Z" transform="translate(12.7976 12.7969)" fill="white"/><path d="M3.08515 3.08451V0.399581V0L2.68364 0.00128888L0 0.00966751L0.010311 3.09482L3.08515 3.08451Z" transform="translate(19.9088 8.99707)" fill="white"/><path d="M16 0C7.17764 0 0 7.17764 0 16C0 24.8217 7.17764 32 16 32C24.8217 32 32 24.8217 32 16C32 7.17764 24.823 0 16 0ZM25.0995 14.1329V21.5832C25.0995 23.5237 23.5218 25.1008 21.5825 25.1008H10.4175C8.47756 25.1008 6.90051 23.5237 6.90051 21.5832V14.1329V10.4181C6.90051 8.47821 8.47756 6.90115 10.4175 6.90115H21.5819C23.5218 6.90115 25.0995 8.47821 25.0995 10.4181V14.1329Z" fill="white"/><path d="M12.3045 1.86707C12.3045 4.61065 10.072 6.84444 7.32716 6.84444C4.58229 6.84444 2.35044 4.61065 2.35044 1.86707C2.35044 1.20712 2.48191 0.57617 2.71651 0H0V7.45025C0 8.41311 0.781761 9.19294 1.74398 9.19294H12.9084C13.8693 9.19294 14.6524 8.41311 14.6524 7.45025V0H11.9346C12.1711 0.57617 12.3045 1.20712 12.3045 1.86707Z" transform="translate(8.67285 14.1328)" fill="white"/></svg></a><a href="https://t.me/vinvotravel_public" class="footer__socials-item footer__socials-item--tg">
           <svg class="footer__socials-img" width="32" height="32" viewBox="0 0 32 32" fill="none" xmlns="http://www.w3.org/2000/svg"><path fill-rule="evenodd" clip-rule="evenodd" d="M0 16C0 7.17773 7.17761 0 16 0C24.823 0 32 7.17773 32 16C32 24.8218 24.8218 32 16 32C7.17761 32 0 24.8218 0 16ZM10.4655 17.6738L6.31799 16.1924C5.89673 16.0415 5.89307 15.4722 6.31311 15.3169L23.3348 9.03223C23.6957 8.89844 24.068 9.20117 23.9894 9.56396L20.9347 23.6274C20.8628 23.9595 20.4559 24.1099 20.1689 23.9102L15.999 21.0127C15.882 20.9312 15.7452 20.8892 15.6082 20.8867C15.4486 20.8838 15.2885 20.9336 15.1582 21.0352L12.8463 22.8389C12.5779 23.0488 12.1736 22.9321 12.0708 22.6157L10.4655 17.6738ZM19.9181 12.1069L11.8121 16.8853C11.5015 17.0688 11.3552 17.4282 11.4556 17.7642L12.332 20.7114C12.3942 20.9204 12.7109 20.8989 12.7411 20.6831L12.969 19.0669C13.012 18.7627 13.1637 18.4824 13.3988 18.2729L20.0885 12.3208C20.2136 12.21 20.0637 12.0215 19.9181 12.1069Z" fill="white"/>
           </svg></a></div>
     </div>

diff --git a/build/index.min.css b/build/index.min.css
@@ -450,7 +450,7 @@ textarea {
 }
 .header {
   position: relative;
-  background: url("images/header_pic.png") bottom no-repeat;
+  background: url("images/header_pic.jpg") bottom no-repeat;
   height: 694px;
   box-sizing: border-box;
   display: -ms-flexbox;
@@ -464,20 +464,20 @@ textarea {
 }
 @media (-webkit-min-device-pixel-ratio: 2), (min--moz-device-pixel-ratio: 2), (min-device-pixel-ratio: 2), (min-resolution: 192dpi), (min-resolution: 2dppx) {
   .header {
-    background: url("images/header_pic@2x.png") bottom no-repeat;
+    background: url("images/header_pic@2x.jpg") bottom no-repeat;
     background-size: cover;
   }
 }
 @media only screen and (max-width: 1439px) {
   .header {
-    background: url("images/header_pic.png") bottom no-repeat;
+    background: url("images/header_pic.jpg") bottom no-repeat;
     height: 694px;
     background-size: cover;
   }
 }
 @media only screen and (max-width: 1023px) {
   .header {
-    background: url("images/header_pic_768.png") bottom no-repeat;
+    background: url("images/header_pic_768.jpg") bottom no-repeat;
     height: 768px;
     background-size: cover;
     padding: 32px 0;
@@ -485,14 +485,14 @@ textarea {
 }
 @media only screen and (max-width: 767px) {
   .header {
-    background: url("images/header_pic_768.png") bottom no-repeat;
+    background: url("images/header_pic_768.jpg") bottom no-repeat;
     height: 512px;
     background-size: cover;
   }
 }
 @media only screen and (max-width: 320px) {
   .header {
-    background: url("images/header_pic_320.png") bottom no-repeat;
+    background: url("images/header_pic_320.jpg") bottom no-repeat;
     height: 512px;
     background-size: cover;
     box-sizing: border-box;
@@ -501,25 +501,25 @@ textarea {
 }
 @media only screen and (max-width: 1439px) and (-webkit-min-device-pixel-ratio: 2), only screen and (max-width: 1439px) and (min--moz-device-pixel-ratio: 2), only screen and (max-width: 1439px) and (min-device-pixel-ratio: 2), only screen and (max-width: 1439px) and (min-resolution: 192dpi), only screen and (max-width: 1439px) and (min-resolution: 2dppx) {
   .header {
-    background: url("images/header_pic@2x.png") bottom no-repeat;
+    background: url("images/header_pic@2x.jpg") bottom no-repeat;
     background-size: cover;
   }
 }
 @media only screen and (max-width: 1023px) and (-webkit-min-device-pixel-ratio: 2), only screen and (max-width: 1023px) and (min--moz-device-pixel-ratio: 2), only screen and (max-width: 1023px) and (min-device-pixel-ratio: 2), only screen and (max-width: 1023px) and (min-resolution: 192dpi), only screen and (max-width: 1023px) and (min-resolution: 2dppx) {
   .header {
-    background: url("images/header_pic_768@2x.png") bottom no-repeat;
+    background: url("images/header_pic_768@2x.jpg") bottom no-repeat;
     background-size: cover;
   }
 }
 @media only screen and (max-width: 767px) and (-webkit-min-device-pixel-ratio: 2), only screen and (max-width: 767px) and (min--moz-device-pixel-ratio: 2), only screen and (max-width: 767px) and (min-device-pixel-ratio: 2), only screen and (max-width: 767px) and (min-resolution: 192dpi), only screen and (max-width: 767px) and (min-resolution: 2dppx) {
   .header {
-    background: url("images/header_pic_768@2x.png") bottom no-repeat;
+    background: url("images/header_pic_768@2x.jpg") bottom no-repeat;
     background-size: cover;
   }
 }
 @media only screen and (max-width: 320px) and (-webkit-min-device-pixel-ratio: 2), only screen and (max-width: 320px) and (min--moz-device-pixel-ratio: 2), only screen and (max-width: 320px) and (min-device-pixel-ratio: 2), only screen and (max-width: 320px) and (min-resolution: 192dpi), only screen and (max-width: 320px) and (min-resolution: 2dppx) {
   .header {
-    background: url("images/header_pic_320@2x.png") bottom no-repeat;
+    background: url("images/header_pic_320@2x.jpg") bottom no-repeat;
     background-size: cover;
   }
 }
